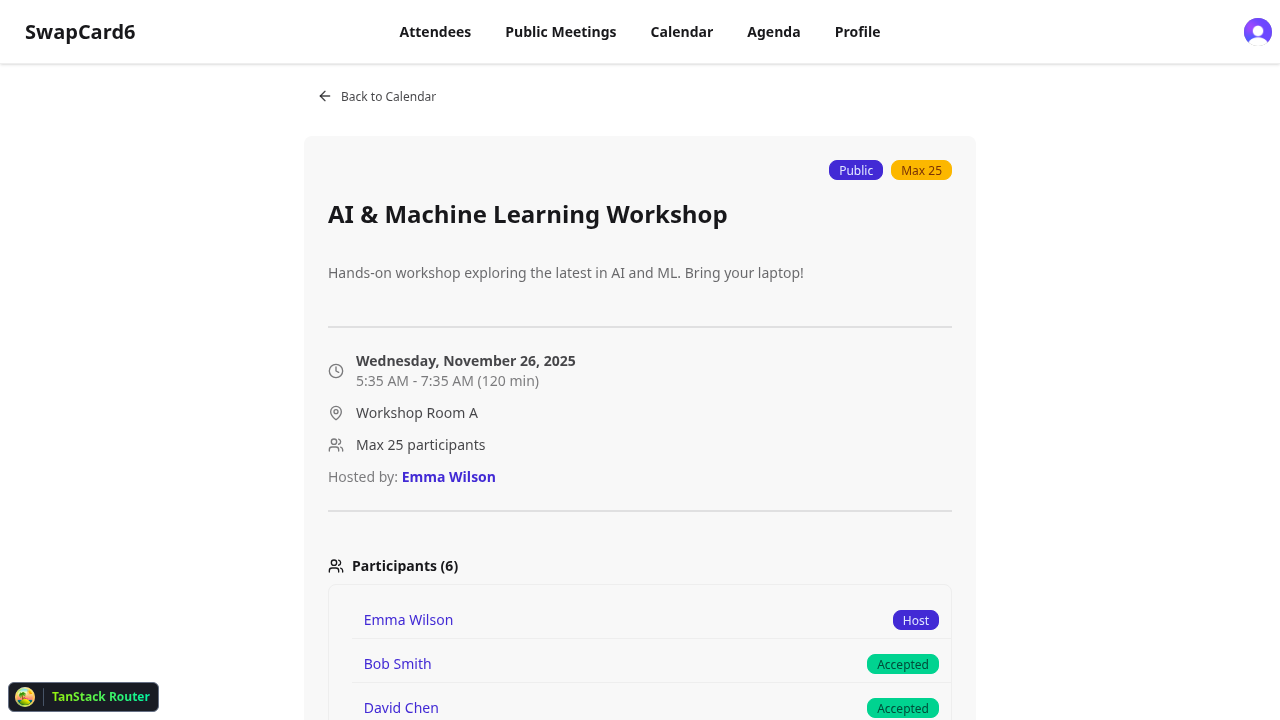
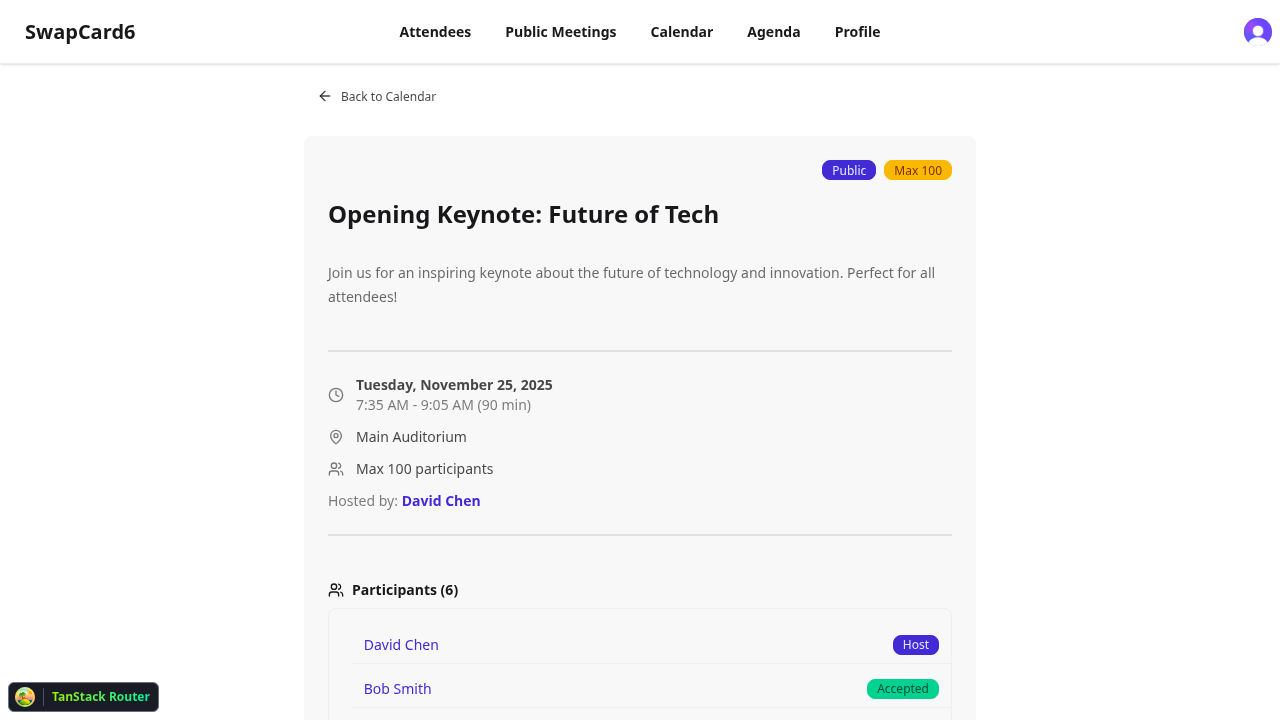
fix: make screenshots deterministic
- Make seed functions pure (require baseTimestamp, no Date.now())
- Frontend passes Date.now() when calling seed from UI
- Take screenshots AFTER content loads (not before)
- Use specific meeting (Opening Keynote) instead of .first()
- Freeze browser clock for consistent calendar view

🤖 Generated with [Claude Code](https://claude.com/claude-code)

diff --git a/e2e/app.spec.ts b/e2e/app.spec.ts
@@ -20,12 +20,10 @@ function clearScreenshotsDir() {
   fs.mkdirSync(SCREENSHOTS_DIR, { recursive: true });
 }
 
-async function navigateAndScreenshot(
+async function screenshot(
   page: import("@playwright/test").Page,
-  url: string,
   screenshotName: string
 ) {
-  await page.goto(url, { waitUntil: "networkidle" });
   await page.screenshot({
     path: path.join(SCREENSHOTS_DIR, `${screenshotName}.png`),
     fullPage: false,
@@ -96,6 +94,9 @@ test.describe("E2E User Flow", () => {
     // Clear screenshots directory before generating new ones
     clearScreenshotsDir();
 
+    // Freeze browser clock for deterministic calendar screenshots
+    await page.clock.install({ time: new Date(SEED_BASE_TIMESTAMP) });
+
     await page.goto("/");
     await expect(page.getByRole("button", { name: "Sign in", exact: true })).toBeVisible();
 
@@ -135,35 +136,39 @@ test.describe("E2E User Flow", () => {
     await page.waitForTimeout(2000);
 
     // Take screenshots of main pages with seeded data
-    await navigateAndScreenshot(page, "/agenda", "agenda");
+    // Wait for content to load BEFORE taking screenshot
+    await page.goto("/agenda", { waitUntil: "networkidle" });
     await expect(page.getByText("Incoming Requests (2)")).toBeVisible();
+    await screenshot(page, "agenda");
 
-    await navigateAndScreenshot(page, "/public-meetings", "public-meetings");
+    await page.goto("/public-meetings", { waitUntil: "networkidle" });
     await expect(page.getByText("Opening Keynote: Future of Tech")).toBeVisible();
+    await screenshot(page, "public-meetings");
 
-    await navigateAndScreenshot(page, "/attendees", "attendees");
+    await page.goto("/attendees", { waitUntil: "networkidle" });
     await expect(page.getByText("Alice Johnson")).toBeVisible();
     await expect(page.getByText("Bob Smith")).toBeVisible();
+    await screenshot(page, "attendees");
 
-    await navigateAndScreenshot(page, "/calendar", "calendar");
+    await page.goto("/calendar", { waitUntil: "networkidle" });
+    await expect(page.getByRole("button", { name: "Today" })).toBeVisible();
+    await screenshot(page, "calendar");
 
-    // Test meeting detail page (MeetingCard with ParticipantList)
-    await navigateAndScreenshot(page, "/public-meetings", "public-meetings");
-    // Click the "Open meeting page" link on the first meeting card
-    await page.getByRole("link", { name: "Open meeting page" }).first().click();
-    // Should be on a meeting detail page showing MeetingCard in full mode
+    // Test meeting detail page - use specific meeting for determinism
+    await page.goto("/public-meetings", { waitUntil: "networkidle" });
+    // Click on "Opening Keynote" specifically (not .first() which may vary)
+    await page.getByRole("heading", { name: "Opening Keynote: Future of Tech" })
+      .locator("..").getByRole("link", { name: "Open meeting page" }).click();
     await expect(page.getByRole("link", { name: "Back to Calendar" })).toBeVisible();
     await expect(page.getByText(/Participants/)).toBeVisible();
-    await page.screenshot({ path: path.join(SCREENSHOTS_DIR, "meeting-detail.png") });
+    await screenshot(page, "meeting-detail");
 
-    // Test user profile page via host link (UserProfileCard component)
+    // Test user profile page - click on the host (David Chen for Opening Keynote)
     await page.getByText("Hosted by:").locator("..").getByRole("link").click();
-    // Should show the UserProfileCard with basic profile info
     await expect(page.getByRole("link", { name: "Back to Attendees" })).toBeVisible();
+    await expect(page.getByRole("heading", { name: "David Chen" })).toBeVisible();
     await expect(page.getByRole("button", { name: "Request a Meeting" })).toBeVisible();
-    // Verify it's a user profile page by checking for profile elements
-    await expect(page.locator("text=/Interests:/")).toBeVisible();
-    await page.screenshot({ path: path.join(SCREENSHOTS_DIR, "user-profile.png") });
+    await screenshot(page, "user-profile");
     await page.getByRole("link", { name: "Back to Attendees" }).click();
     await expect(page.getByRole("heading", { name: "Attendees" })).toBeVisible();
 

diff --git a/convex/seed.ts b/convex/seed.ts
@@ -51,10 +51,10 @@ export const clearAllData = internalMutation({
 
 export const seedData = internalMutation({
   args: {
-    baseTimestamp: v.optional(v.number()),
+    baseTimestamp: v.number(),
   },
   handler: async (ctx, args) => {
-    const now = args.baseTimestamp ?? Date.now();
+    const now = args.baseTimestamp;
     const oneHour = 60 * 60 * 1000;
     const oneDay = 24 * oneHour;
 
@@ -329,11 +329,11 @@ export const seedData = internalMutation({
 // Main seeding mutation that includes the current authenticated user
 export const seedDataWithCurrentUser = mutation({
   args: {
-    baseTimestamp: v.optional(v.number()),
+    baseTimestamp: v.number(),
   },
   handler: async (ctx, args) => {
     const currentUser = await getCurrentUserOrCrash(ctx);
-    const now = args.baseTimestamp ?? Date.now();
+    const now = args.baseTimestamp;
     const oneHour = 60 * 60 * 1000;
     const oneDay = 24 * oneHour;
 

diff --git a/src/routes/profile.tsx b/src/routes/profile.tsx
@@ -282,7 +282,7 @@ function SeedDataSection() {
     setIsSeeding(true);
     setResult(null);
     try {
-      await seedData({});
+      await seedData({ baseTimestamp: Date.now() });
       setResult("Test data created successfully!");
     } catch (error) {
       setResult(error instanceof Error ? error.message : "Failed to seed data");
